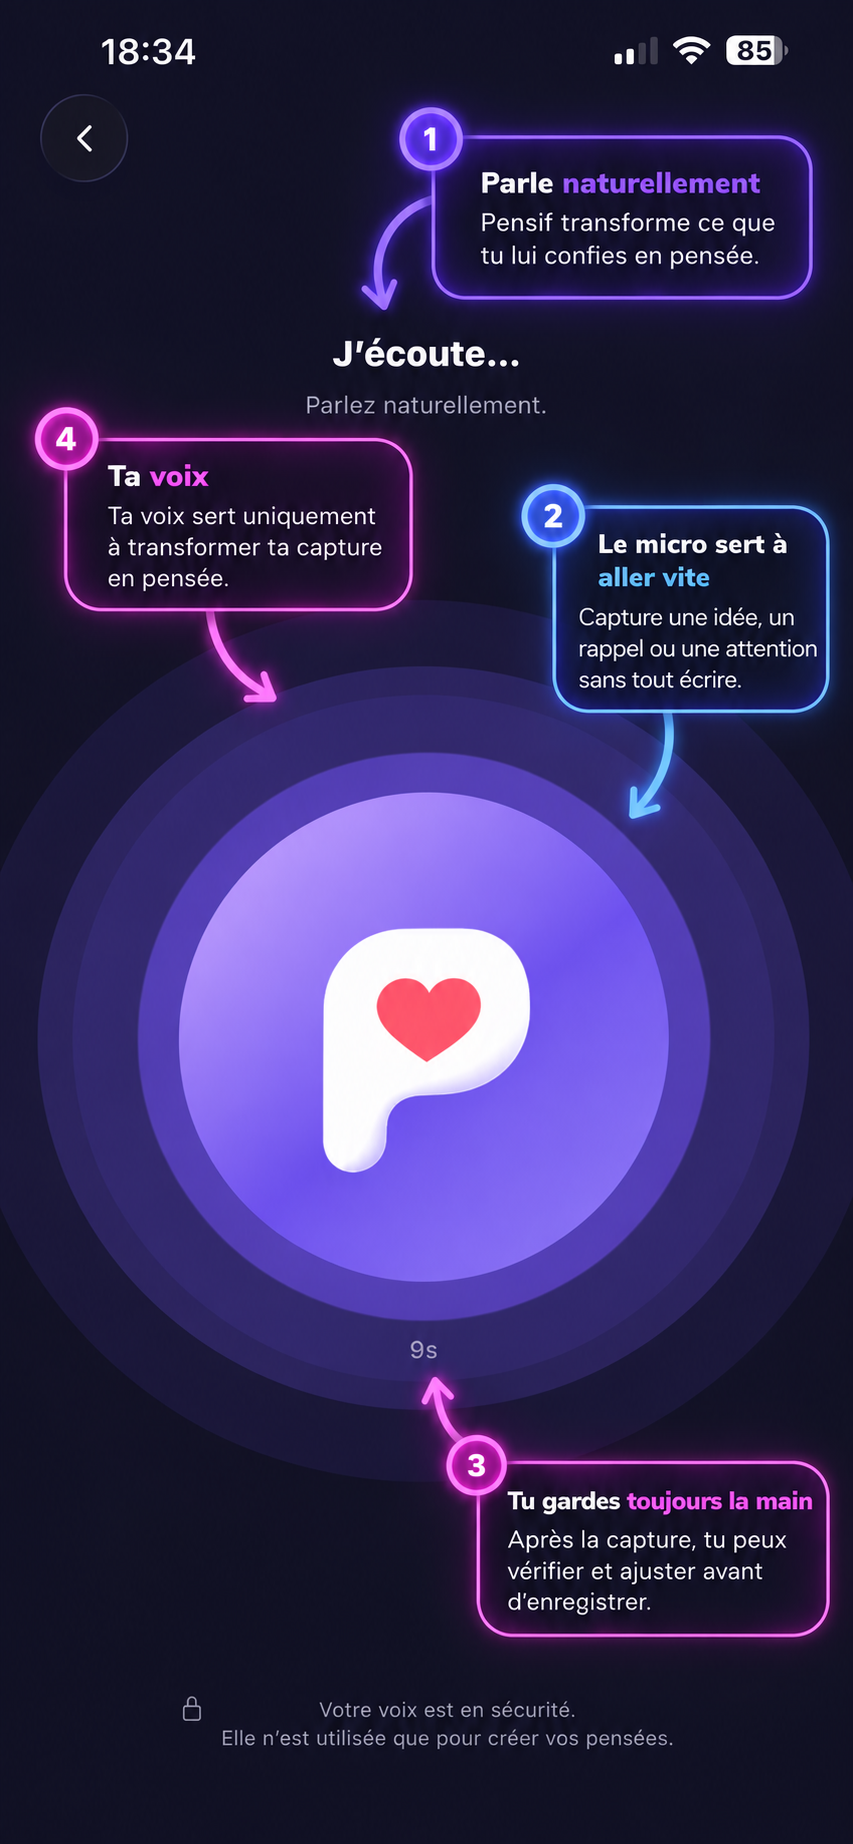
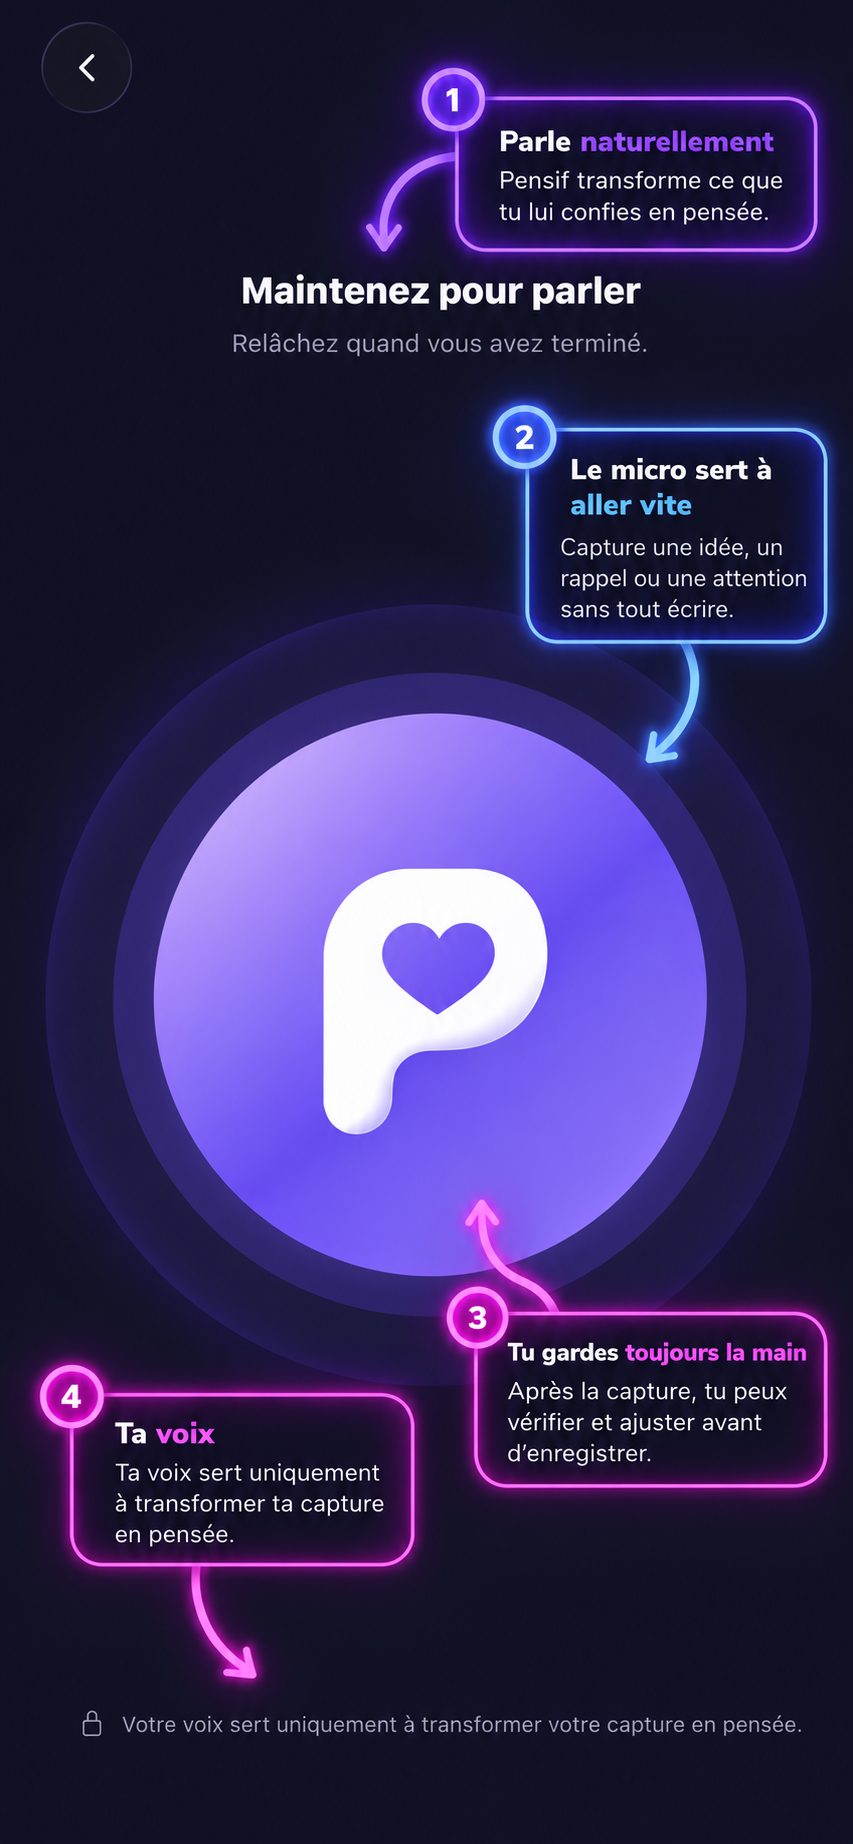
fix(capture): align voice privacy wording

diff --git a/src/screens/CaptureScreen.tsx b/src/screens/CaptureScreen.tsx
@@ -1146,7 +1146,7 @@ export function CaptureScreen() {
           <View style={styles.privacyRow}>
             <Ionicons name="lock-closed-outline" size={13} color={theme.inkSoft} />
             <Text style={[styles.privacyText, { color: theme.inkSoft }]}>
-              Votre voix est en sécurité.{'\n'}Elle n’est utilisée que pour créer vos pensées.
+              Votre voix sert uniquement à transformer votre capture en pensée.
             </Text>
           </View>
         </View>
@@ -1198,7 +1198,7 @@ export function CaptureScreen() {
           <View style={styles.privacyRow}>
             <Ionicons name="lock-closed-outline" size={13} color={theme.inkSoft} />
             <Text style={[styles.privacyText, { color: theme.inkSoft }]}>
-              Votre voix est en sécurité.{'\n'}Elle n’est utilisée que pour créer vos pensées.
+              Votre voix sert uniquement à transformer votre capture en pensée.
             </Text>
           </View>
         </View>
